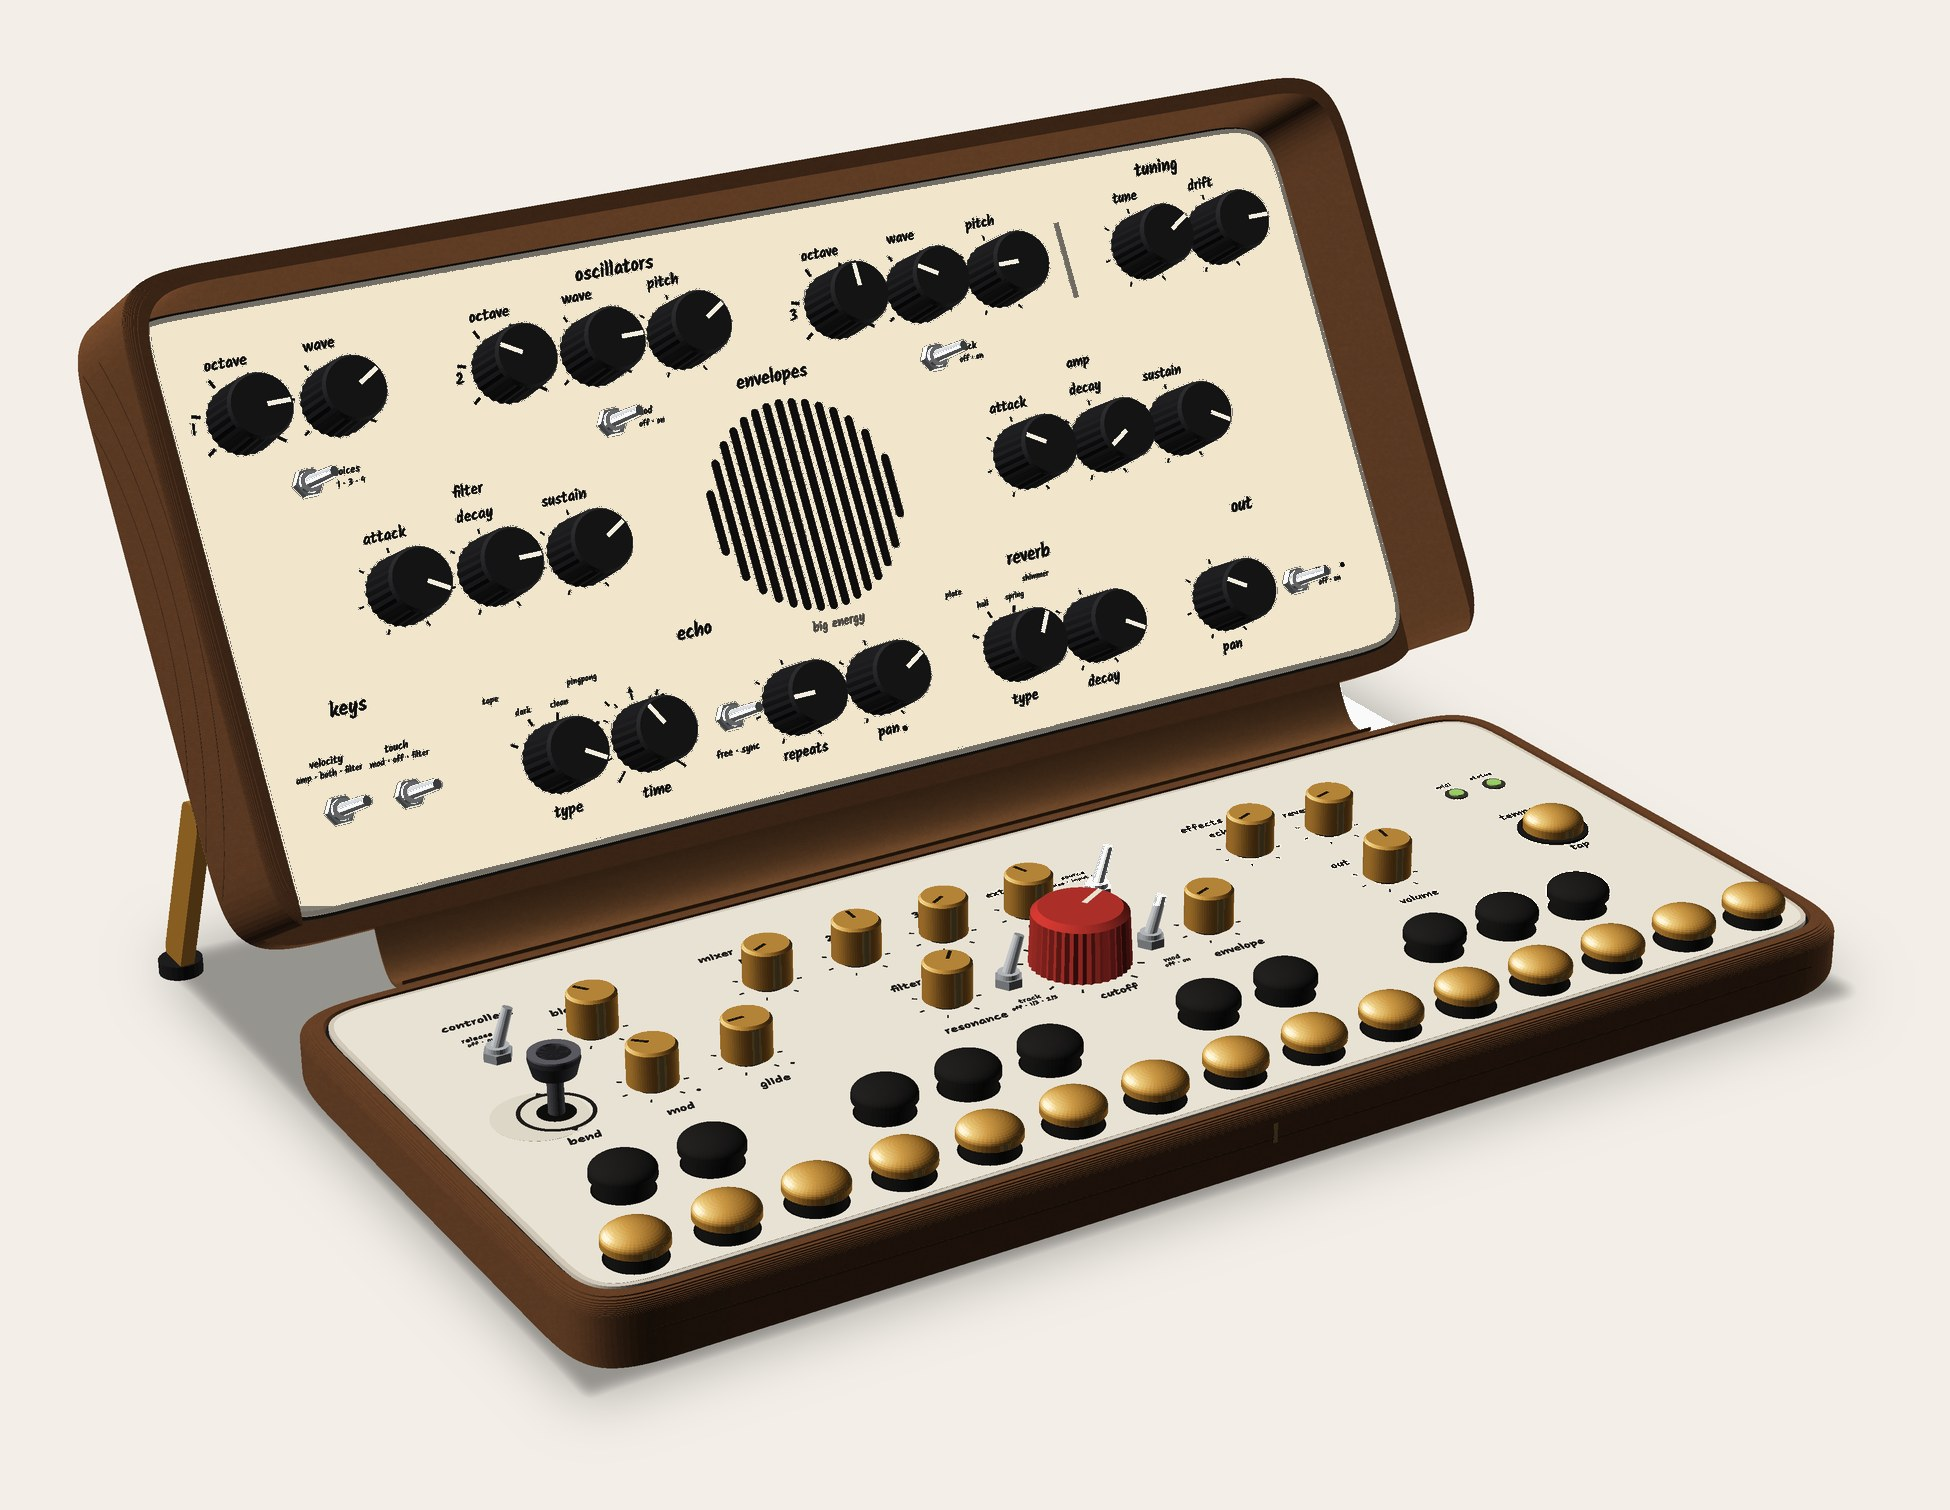
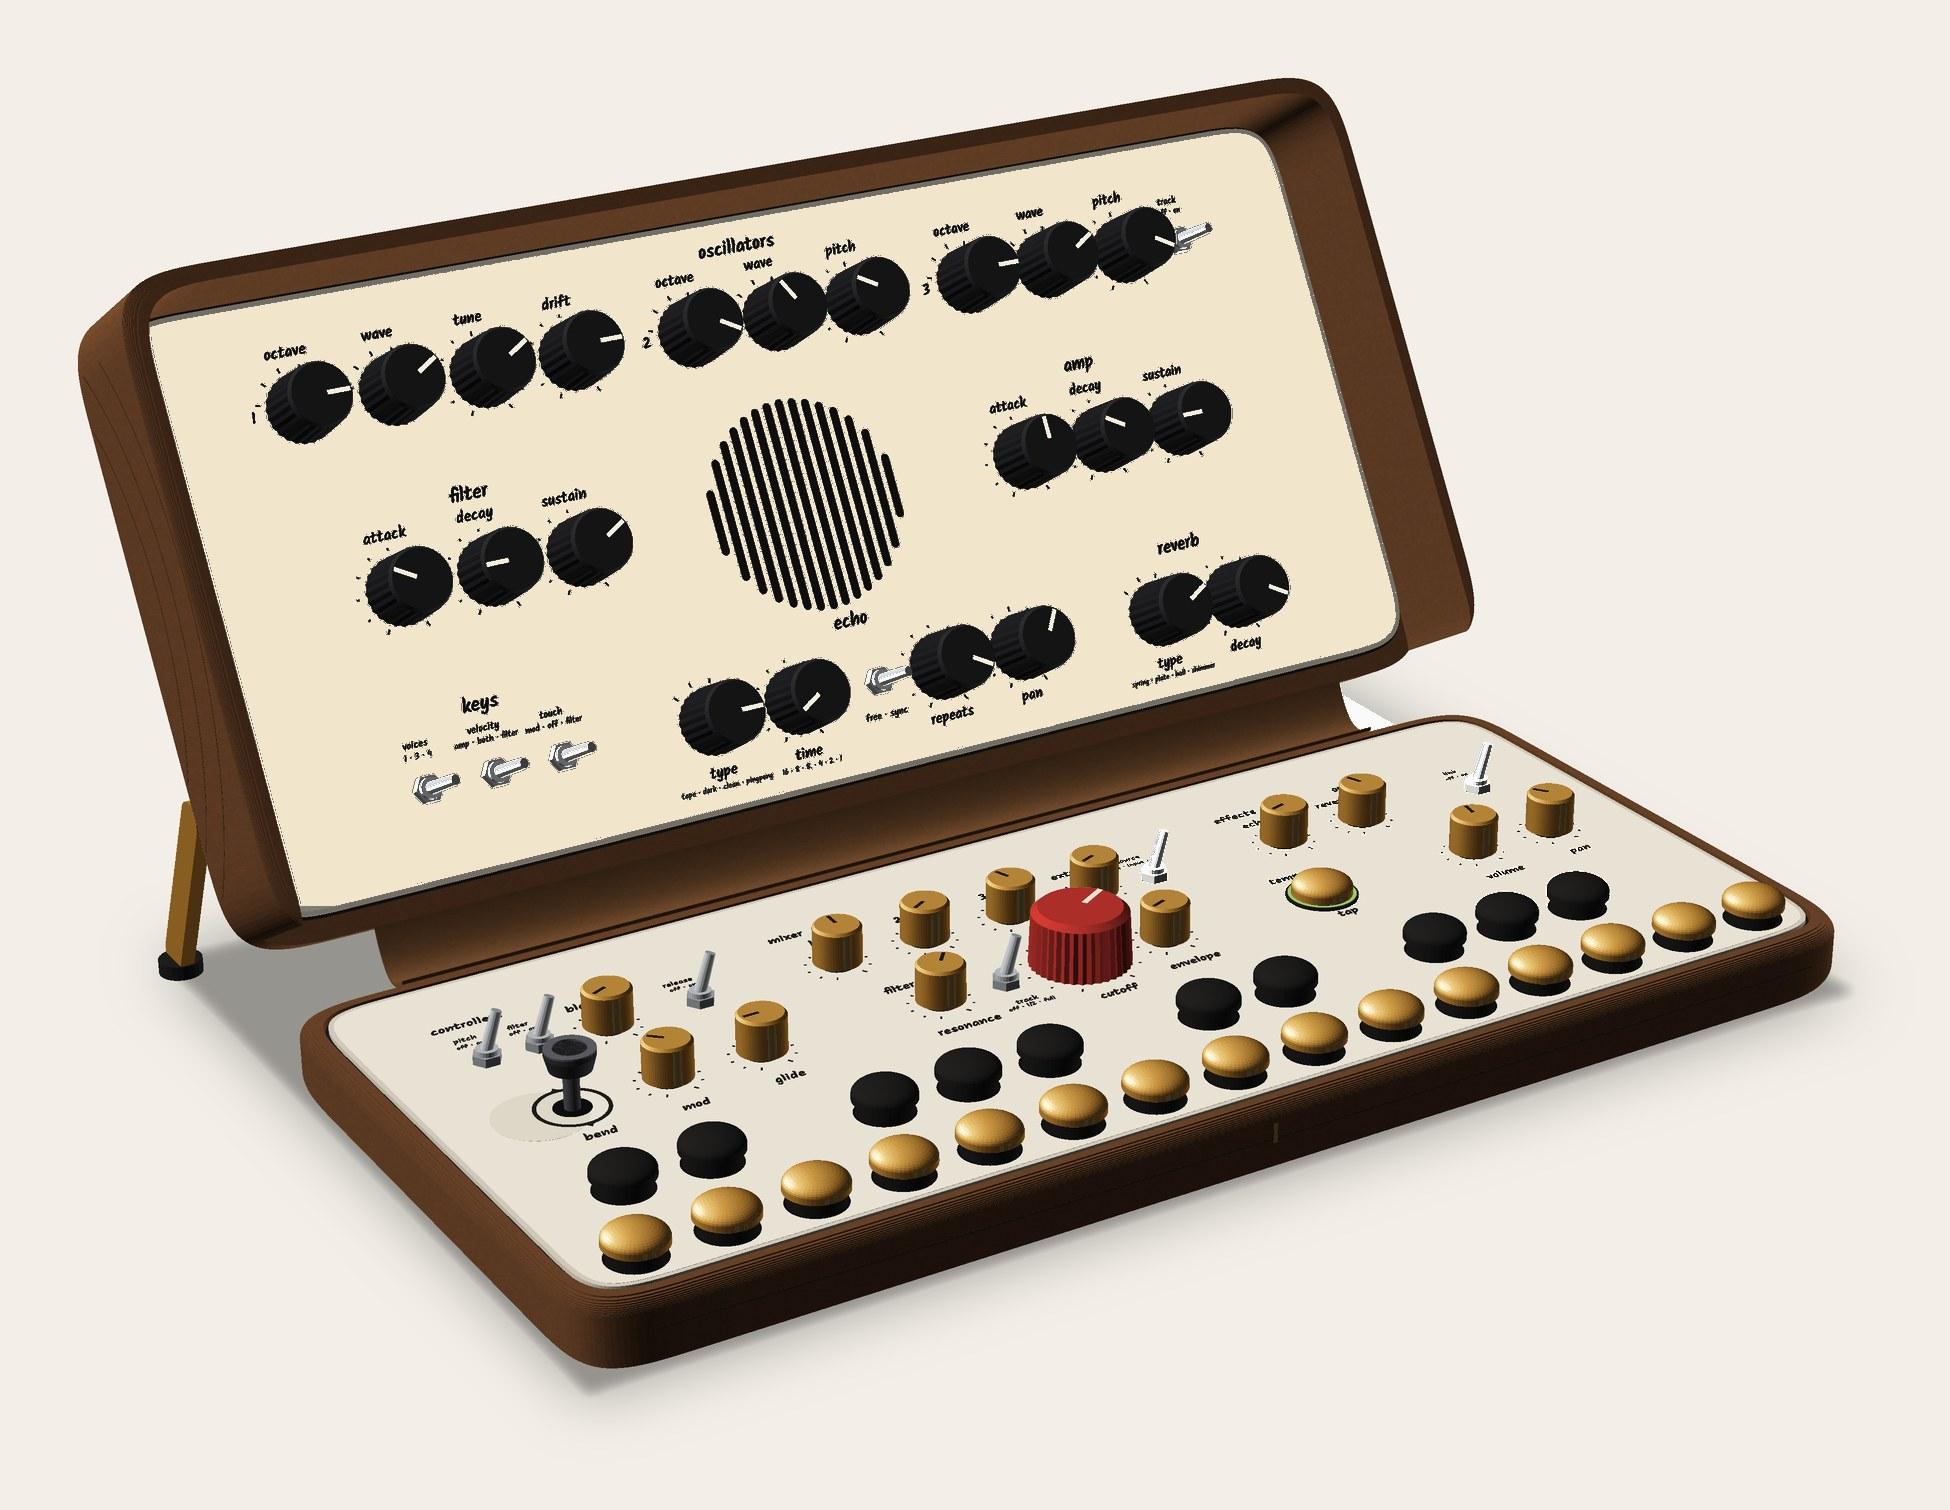
CATHEDRAL P5R, visual: marking system on systems' 049e51e re-lay; names lines (types, SYNC divisions) at 1.2, TAP bezel lit as the status light, row-C / filter / amp fits; P5R top and standing; look doc rev 9.7; real-Kalam 0

diff --git a/design/concepts/_mock-src/rb.py b/design/concepts/_mock-src/rb.py
@@ -50,6 +50,7 @@ def _tick(x, y, z, r, a, L, w, col):
 MARK_OUT, MARK_W, MARK_MINOR, MARK_MAJOR = 1.7, 0.35, 0.55, 1.0   # every tick ends on one circle, r + MARK_OUT (0.2 inside
                      # the old r + 1.9, so every legend keeps 1.0 in real Kalam); majors hang 1.0 in from it, minors 0.55
 MARK_GAP = MARK_OUT - MARK_MAJOR                                   # TIME's inner scale starts where a major does
+NAMED_S = 1.2       # names lines (types, TIME's divisions): 1.2, so echo type's and TIME's lines, 20 apart, keep 1.5 (0.92 at 1.3)
 NAMED_LEAD = 1.35    # gap between a type selector's word and its names line (real Kalam: 0.05 at 1.0)
 MARK_STEPS = {"RANGE": 6, "WAVE": 6, "ECHO TYPE": 4, "REVERB TYPE": 4}            # stepped selectors: detents
 MARK_CENTRE = ("DRY PAN", "ECHO PAN", "FREQ 2", "FREQ 3", "FREQ 4", "TUNE", "MOD MIX")   # centre-detent (bipolar)
@@ -1709,7 +1710,10 @@ def nv_heads_left(lc, sections):
     if getattr(lc, "SECTIONS_LEFT", None):
         heads = [(t, x + P5O_HEAD_FIT.get(t, (0, 0))[0], d + P5O_HEAD_FIT.get(t, (0, 0))[1]) for t, x, d in lc.SECTIONS_LEFT]
         return heads, [(t, x - len(t) * 0.25 * lc.SUB_S, d) for t, x, d in nv_fit_subheads(lc)], "left"
-    return list(sections), nv_fit_subheads(lc), "center"   # (P5R's row-C line is systems' d 43.5 since 7595f7d)
+    # 049e51e real Kalam: P5R row-C headings +1.5 ("keys" sat 0.09 over "velocity"); "filter" / "amp" +1.2 (0.38 / 0.42
+    # over "decay")
+    fit = {"keys": 0.92, "echo": 0.88, "reverb": 0.88, "filter": 1.2, "amp": 1.2}   # keys 0.04 over the line: invisible; echo is held by the window (1.0) if getattr(lc, "VARIANT", "") == "P5R" else {}
+    return [(t, x, d + fit.get(t, 0.0)) for t, x, d in sections], nv_fit_subheads(lc), "center"
 
 def nv_hair(lc):
     """systems' HAIR (run b restarting over the switches is in layout_check.py since 9bbedb1)."""
@@ -1740,6 +1744,7 @@ def nv_notes(lc):
 
 NV_KEYS_COLUMN = True
 NV_UNDER_GAP = 2.0        # "free · sync" under its toggle: at 1.75 real Kalam sat 1.27 from the nut
+ABOVE2_BOT, ABOVE2_LEAD = 1.9, 1.2   # lid "above2" (P5R keys): tighter, so row C's one heading line clears both the keys' words and the window
 BELOW2_LEAD = 1.25        # its leading: at 0.9 (the base's) "velocity" sat 0.01 over "amp · both · filter" (y descender over b / f / l)
 BELOW2_TOP = 2.25         # "below2" two-line legends (base front row, P5O keys): block top TGL + 2.25 under the switch (real Kalam ascent)
 TS_LEAD = (1.2, 1.3)     # two-line toggle legend: name centre d + 1.2, positions centre d - 1.3 (real Kalam leading;
@@ -1986,9 +1991,9 @@ class Nave(Cathedral):
             elif where == "above2":          # steer 5 fixes 4 (P5R keys): name over positions ABOVE the switch, centred,
                 nm, pos = lab.split("|")     #   the base rear row's style; block bottom TGL + 2.35 over the nut
                 hn, hp = 0.85 * lc.SW_LS, 0.85 * lc.NS
-                bot = L0 + d + lc.TGL + 2.35
+                bot = L0 + d + lc.TGL + ABOVE2_BOT
                 s += txt(x, bot + hp / 2, z, pos, lc.NS, ink, font=st.font)
-                s += txt(x, bot + hp + BELOW2_LEAD + hn / 2, z, nm, lc.SW_LS, ink, font=st.font)
+                s += txt(x, bot + hp + ABOVE2_LEAD + hn / 2, z, nm, lc.SW_LS, ink, font=st.font)
             elif where == "below2":          # steer 5 (P5O keys): the base front row's style, name over positions under
                 nm, pos = lab.split("|")     #   the switch, centred (top of the block d - TGL - 2.1, 0.9 leading)
                 hn, hp = 0.85 * lc.SW_LS, 0.85 * lc.NS
@@ -2010,10 +2015,11 @@ class Nave(Cathedral):
                 cy += LEGEND_FIT.get((getattr(lc, "VARIANT", ""), n), 0.0) + \
                       (getattr(lc, "LEGEND_NUDGE", {}).get(n, 0.0) if getattr(lc, "VARIANT", "") == "P5O" else 0.0)
                 s += txt(x, L0 + cy, z, lab, sz, ink, font=st.font)
-                if self._sq() and n in MARK_NAMED:       # named choices: their names in step order, under the word
-                    py = cy - (bx[3] - bx[1]) / 2 - NAMED_LEAD - 0.85 * lc.NS / 2 if where != "behind" else \
-                         cy + (bx[3] - bx[1]) / 2 + NAMED_LEAD + 0.85 * lc.NS / 2
-                    s += txt(x, L0 + py, z, " · ".join(MARK_NAMED[n]), lc.NS, ink, font=st.font)
+                named_ = getattr(lc, "NAMED_LINES", None) or {k_: " · ".join(v_) for k_, v_ in MARK_NAMED.items()}
+                if self._sq() and n in named_:           # named choices: their names in step order, under the word
+                    py = cy - (bx[3] - bx[1]) / 2 - NAMED_LEAD - 0.85 * NAMED_S / 2 if where != "behind" else \
+                         cy + (bx[3] - bx[1]) / 2 + NAMED_LEAD + 0.85 * NAMED_S / 2
+                    s += txt(x, L0 + py, z, named_[n], NAMED_S, ink, font=st.font)
         heads, subs, ha = nv_heads_left(lc, sections)
         for t, x, d in heads:                            # steer 5 score fixes 2: P5O's headings top-left of their groups
             s += txt(x, L0 + d, z, t, lc.HS, FO_INK, font=HAND, halign=ha)
@@ -2075,7 +2081,7 @@ class Nave(Cathedral):
                 if self.rear(y):                            # rear row: name over positions, ABOVE the toggle
                     bot = y + lc.TGL + 2.35
                     s += txt(x, bot + hp / 2, z, pos, lc.NS, ink, font=st.font)
-                    s += txt(x, bot + hp + 0.9 + hn / 2, z, nm, lc.SW_LS, ink, font=st.font)
+                    s += txt(x, bot + hp + (BELOW2_LEAD if self._sq() else 0.9) + hn / 2, z, nm, lc.SW_LS, ink, font=st.font)
                     continue
                 top = y - lc.TGL - 2.25                     # 2.25 / 0.9: real Kalam's ascent
                 s += txt(x, top - hn / 2, z, nm, lc.SW_LS, ink, font=st.font)
@@ -2095,6 +2101,9 @@ class Nave(Cathedral):
                     s += ticks(x, y, z, 11.3, [a for a in range(-150, 151, 30) if abs(a) != 90], ink, length=1.4, width=0.45)
             elif n == "TAP":
                 s += r5.tap_cap(x, y, z, self.tap_style())
+                if getattr(lc, "BASE6", False):          # §20: the one status light is TAP's ring (lit, a thin green ring)
+                    s += (f'{c("#9fd36b")} translate([{x:.3f},{y:.3f},{z + 0.62:.3f}]) linear_extrude(0.05) '
+                          f'difference(){{ circle(r=7.05,$fn=96); circle(r=6.3,$fn=96); }}\n')   # on the bezel's top face
                 s += txt(x, y - 6 - st.lab_gap - 0.6, z, lab, st.lsize, ink, font=st.font)
             elif self.route == "R-LOW":
                 s += low_knob(x, y, z, rnd.uniform(-130, 130), self.low_col)

diff --git a/design/branches/concepts/cathedral/how-it-looks-and-feels.md b/design/branches/concepts/cathedral/how-it-looks-and-feels.md
@@ -1,4 +1,4 @@
-# CATHEDRAL: how it looks and feels (visual, rev 9.6: the marking system (owner: "the markings around the knobs are all inconsistent"), every layout option, both options side by side)
+# CATHEDRAL: how it looks and feels (visual, rev 9.7: the marking system applied to P5R's re-lay, systems 049e51e)
 
 Seed: CHAMBER rev 2 + FOLD-105 v1.1. Owner record: `design/owner.md` (14:12 onwards). Read with `how-it-works.md`, where systems owns the geometry; **§19** is this revision's layout (commit a80d7c: equal-gutter base, P5O as columns with a VCO 4 slot, P5R with out at the end of its bottom row, pivots inboard, the gap rule). The director's steer-5 scores (P5R 8, P5O 6, base 7) are in `design/notes/director.md`; then P5R 9, P5O 8. Rev 9.1 lays out systems' fixes for the 10 (f8ba494): P5R's oscillator switches on one line under the VCOs; P5O's headings top-left, every VCO reading octave · wave · pitch, tune · drift as a headed "tuning" pair after VCO 1, and out in R4's right slot.
 
@@ -35,6 +35,17 @@ Seed: CHAMBER rev 2 + FOLD-105 v1.1. Owner record: `design/owner.md` (14:12 onwa
 - **The name is off the panel** (owner: "Also it doesn't need to say big energy").
 - **Reverb names in size order** (spring · plate · hall · shimmer, review 8) is a change to the DSP's position order. **Systems / director.**
 
+### Rev 9.7: P5R re-laid (systems 049e51e), marking system applied
+- Every knob carries the rev 9.6 rules. The type names and TIME's six SYNC divisions (16 · 8 · 8. · 4 · 2 · 1) print as **names lines** at 1.2 under their words. At 1.3 the echo-type and TIME lines, 20 mm apart, came 0.92 apart in real Kalam.
+- **TAP's status light:** its bezel's top face is lit green (§20: one status light, in TAP's ring). There are no other lights on the panel.
+- **Real-Kalam fits, for systems to fold:**
+  - P5R row-C heading line +0.88 ("keys" +0.92), the most the window allows (1.0) while "keys" keeps 1.5 over "velocity";
+  - "filter" / "amp" +1.2 (0.38 / 0.42 over "decay");
+  - lid "above2": block bottom TGL + 1.9, leading 1.2 (keys);
+  - base rear switches' leading 1.25 (base "pitch" sat 0.26 over its positions at 0.9);
+  - names lines at 1.2.
+- **Checks:** real Kalam 0, systems' rules 0, the director's tests 0 (P5R). P5O waits for systems' re-lay.
+
 ### The two lids, side by side
 <div style="display:grid;grid-template-columns:1fr 1fr;gap:1rem;align-items:start">
 <figure>
@@ -46,7 +57,7 @@ Seed: CHAMBER rev 2 + FOLD-105 v1.1. Owner record: `design/owner.md` (14:12 onwa
 <figcaption><b>P5O without VCO 4</b> (exact). The three oscillator rows spread over the same height (d 104 / 69 / 34), so the block fills its column and no slot is left empty. Everything else is as above; voices reads 1 · 3 · 4.</figcaption>
 </figure>
 <figure>
-<img src="img/cathedral-s5-P5R-top-9.9px-per-mm.png" alt="Exact top view of P5R open flat. Lid, top row: oscillators 1, 2 and 3 (octave, wave, pitch), numbered in the margin, then tuning (tune, drift) behind a short engraved break; under each VCO its own switch: voices, mod, track. Middle row, symmetric about the slotted window: the filter envelope on the left and the amp envelope on the right (attack, decay, sustain), under the envelopes heading. Bottom row, with its headings on one line 3 mm above the type knobs' fan words: keys (velocity and touch, their names and positions above each switch), echo (type, time, free · sync, repeats, pan), reverb (type, decay), out (pan, link). The name, big energy, in light ink under the window. Same two-row base as P5O.">
+<img src="img/cathedral-s5-P5R-top-9.9px-per-mm.png" alt="Exact top view of P5R open flat, every knob on one tick system. Lid, top row under one oscillators heading: VCO 1 (octave, wave, tune, drift), VCO 2 (octave, wave, pitch), VCO 3 (octave, wave, pitch, then its track switch), numbered 1 to 3. Middle row: the filter envelope, headed filter, left of the slotted window, and the amp envelope, headed amp, right of it (attack, decay, sustain). Bottom row on one heading line: keys (voices, velocity and touch switches, their names and positions above each), echo (type with its names line tape · dark · clean · pingpong, time with its divisions line 16 · 8 · 8. · 4 · 2 · 1, free · sync, repeats, pan) and reverb (type with spring · plate · hall · shimmer, decay). Base, rear row: controllers (pitch and filter switches, blend, release), mixer (1, 2, 3, extra, source), effects (echo, reverb) and link; front row: bend, mod, glide; filter (resonance, track, the red cutoff, envelope); tempo (tap, its bezel lit green as the status light); out (volume, pan). No name on the panel.">
 <figcaption><b>P5R, the rule in rows</b> (exact, scale bar 20 mm). Top to bottom: oscillators ‖ tuning, with each VCO's switch under it; filter · (window) · amp, symmetric about the window; keys → echo → reverb → out, with the bottom row's headings on one line above the fan words. The reading wraps from amp to keys, which feed both envelopes. Headings are centred over their groups.</figcaption>
 </figure>
 </div>
